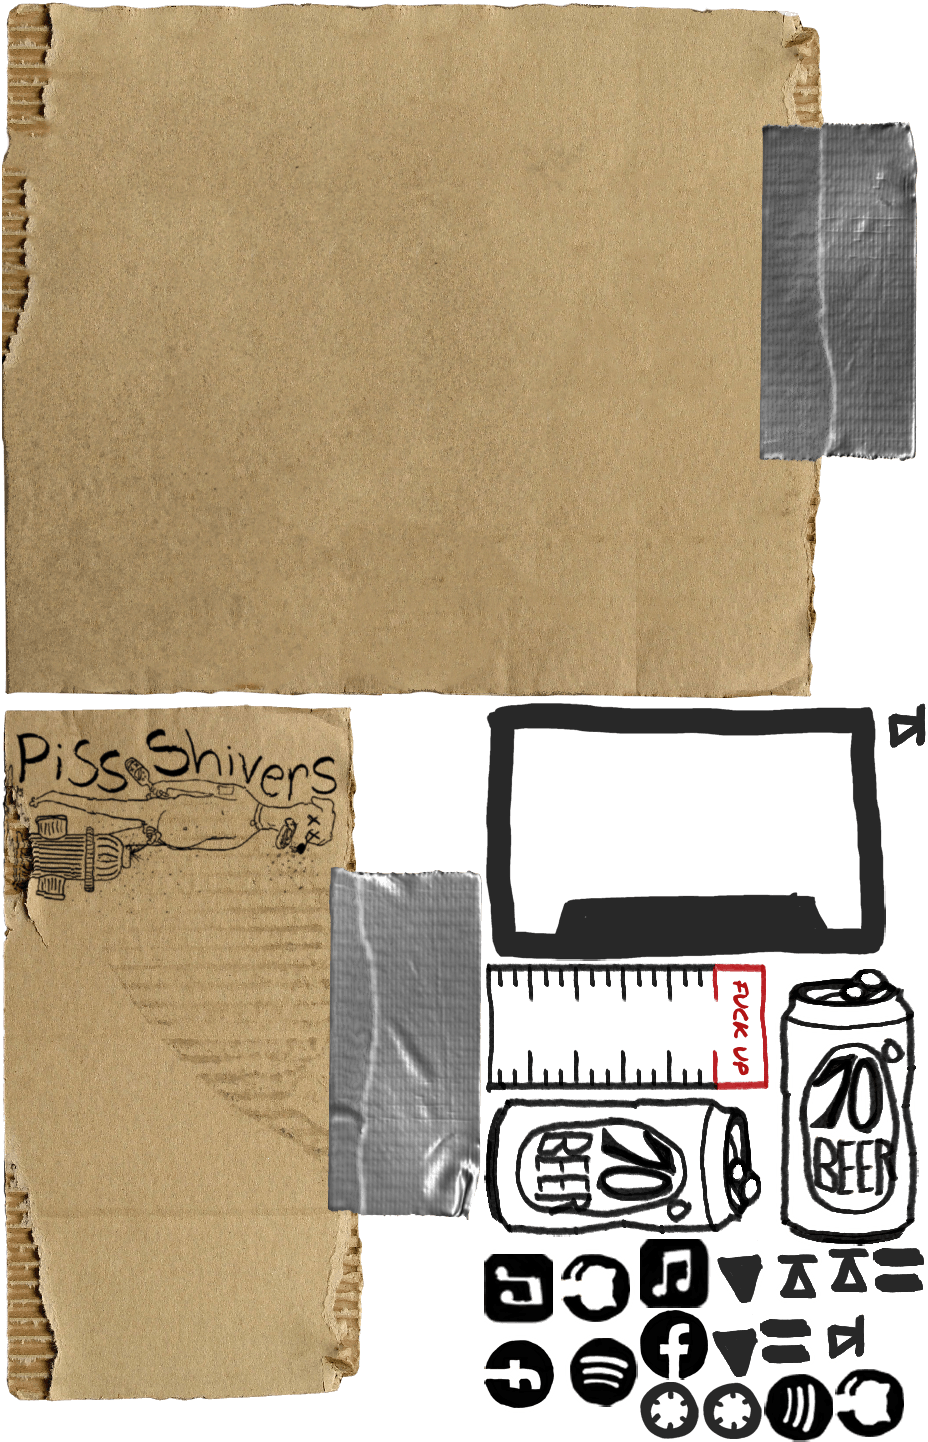
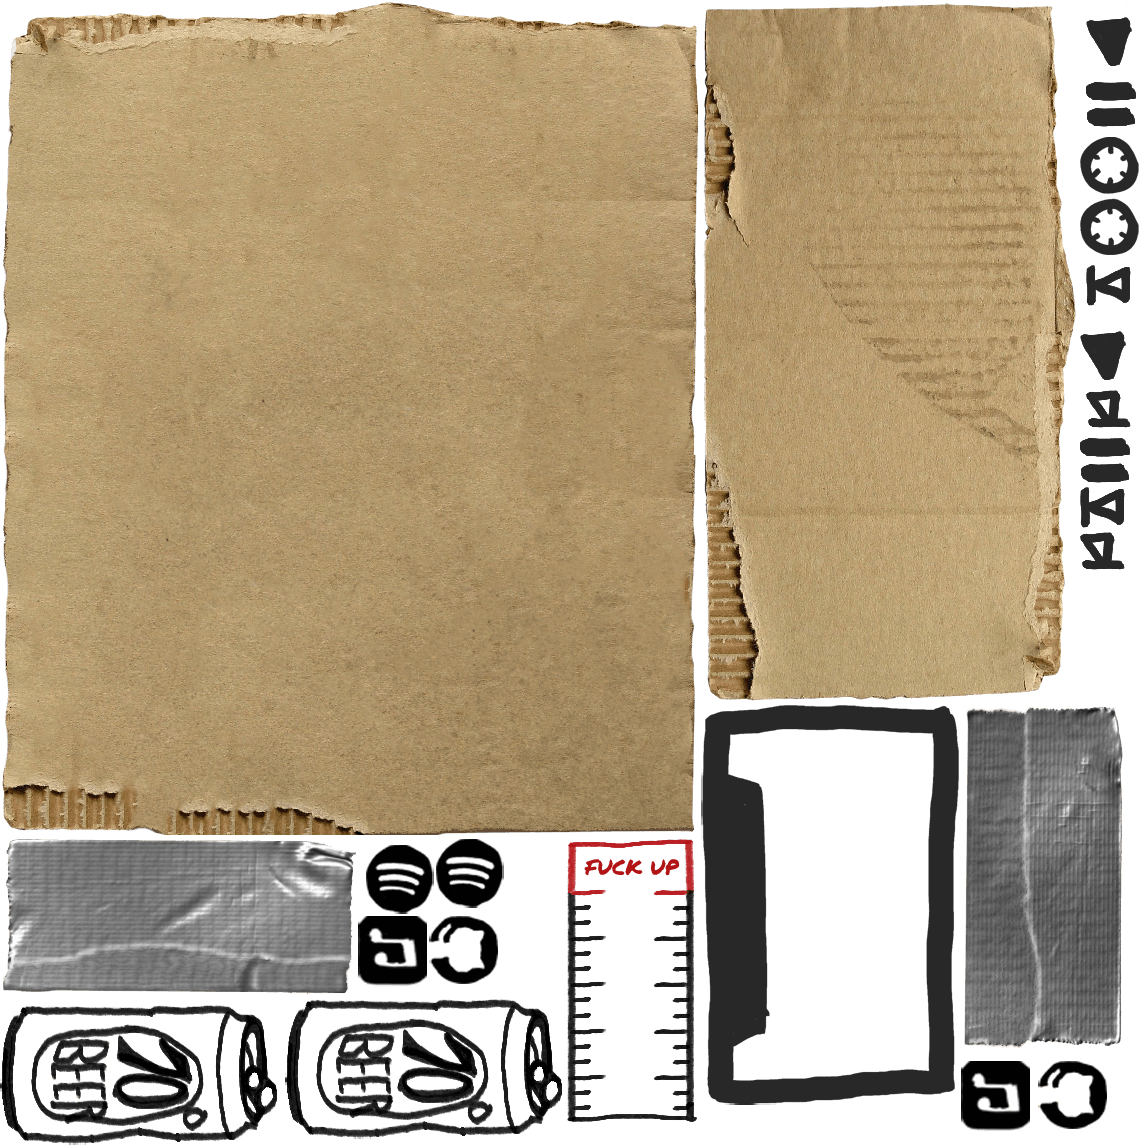
Fixes: UI sprite improvments and playlist auto-next play

diff --git a/src/app/piss-app/ui/nav-board/nav-board.ts b/src/app/piss-app/ui/nav-board/nav-board.ts
@@ -6,36 +6,37 @@ import { Beer } from './beer';
 import { PissOMeter } from './piss-o-meter';
 import { loadScene } from '../../../store/scene/actions';
 import { Toilet, Backyard } from '../../scenes';
+import { TapedBoard } from '../taped-board';
 
 
-export class NavBoard extends SheetSprite {
+export class NavBoard extends TapedBoard {
 
     pissOMeter: PissOMeter;
     beer: Beer;
 
-    constructor(sheet: PIXI.Spritesheet){
-        super('nav-board.png', sheet);
+    constructor(sheet: PIXI.Spritesheet, board: string, tape: string){
+        super(sheet, board, tape);
         this.pissOMeter = new PissOMeter('piss-o-meter.png', sheet);
         this.pissOMeter.init();
-        this.addChild(this.pissOMeter);
+        this.board.addChild(this.pissOMeter);
 
         this.beer = new Beer(sheet);
-        this.addChild(this.beer);
+        this.board.addChild(this.beer);
 
         const header = new Text("Baby Haus Activies:", {fontSize: 40})
         header.x = this.pissOMeter.x + 120;
-        header.y = 180;
-        this.addChild(header)
+        header.y = 80;
+        this.board.addChild(header)
         
         const list = new Text("1. Play a Piss Shivers track\r\n2. Drink some Beer (don't FUCK-UP and drink too much)\r\n3. Use the TOILET to drain the Piss-O-Meter\r\n4. Listen to Piss Shivers on Spotify or Apply Music", {maxWidth: 400, fontSize: 25})
         list.x = header.x+30;
         list.y = header.y + 70;
-        this.addChild(list);
+        this.board.addChild(list);
 
         const goto = new Text("GO TO:");
         goto.x = list.x;
         goto.y = list.y + list.height + 70;
-        this.addChild(goto)
+        this.board.addChild(goto)
 
         const toilet = new TextButton("TOILET ->");
         toilet.x = goto.x + 100;
@@ -43,7 +44,7 @@ export class NavBoard extends SheetSprite {
         toilet.on('pointerdown', () => {
             store.dispatch(loadScene(Toilet.name))
         });
-        this.addChild(toilet);
+        this.board.addChild(toilet);
 
         const backyard = new TextButton("<- BACKYARD", {fontName: 'Permanent Marker', fontSize: 40});
         backyard.x = goto.x + 40;
@@ -51,25 +52,25 @@ export class NavBoard extends SheetSprite {
         backyard.on('pointerdown', () => {
             store.dispatch(loadScene(Backyard.name))
         });
-        this.addChild(backyard);
+        this.board.addChild(backyard);
 
         const spotify = new SpriteButton("spotify.png", sheet);
         spotify.on('pointerdown', () => {
             window.open("https://open.spotify.com/artist/0mtCigA4HfQhb325zUNvAj", "_blank")
         })
-        this.addChild(spotify)
+        this.board.addChild(spotify)
 
         const appleMusic = new SpriteButton("apple-music.png", sheet)
         appleMusic.on('pointerdown', () => {
             window.open("https://geo.music.apple.com/us/album/extended-piss/1516122681", "_blank")
         })
-        this.addChild(appleMusic);
+        this.board.addChild(appleMusic);
 
         const github = new SpriteButton("github.png", sheet)
         github.on('pointerdown', () => {
             window.open("https://github.com/pissshivers", "_blank")
         })
-        this.addChild(github);
+        this.board.addChild(github);
     }
 
 }

diff --git a/src/app/piss-app/ui/music-board/music-board.ts b/src/app/piss-app/ui/music-board/music-board.ts
@@ -1,36 +1,62 @@
 import * as PIXI from 'pixi.js';
 
-import { Tape } from './music-player/tape';
+import { Cassette } from './music-player/tape';
 import { Controls } from './music-player/controls';
 import { Playlist } from '../../core/Playlist/Playlist';
 import { ITrack } from '../../core/Playlist/ITrack'
 import { Tracks } from './tracks';
 import { SheetSprite } from '../../core/UI/SheetSprite';
+import { TapedBoard } from '../taped-board';
 
-export class MusicBoard extends SheetSprite {
+export class MusicBoard extends TapedBoard {
 
    sheet: PIXI.Spritesheet;
-   tape: Tape;
+   schlongDog: PIXI.Sprite;
+   pissAnim: PIXI.AnimatedSprite;
+   cassette: Cassette;
    controls: Controls;
    tracks: ITrack[];
    playlist: Playlist;
 
-    constructor(sheet: PIXI.Spritesheet){
-        super('music-board.png', sheet);
+    constructor(sheet: PIXI.Spritesheet, board: string, tape: string){
+        super(sheet, board, tape);
 
         this.sheet = sheet;
         this.tracks = Tracks;
         this.playlist = new Playlist(this.tracks);
 
-        this.tape = new Tape(this.sheet, this.playlist);
-        this.addChild(this.tape);
-
+        this.cassette = new Cassette(this.sheet, this.playlist);
+        this.board.addChild(this.cassette);
+        
 
         this.controls = new Controls(this.sheet, this.playlist);
-        this.addChild(this.controls);
+        this.board.addChild(this.controls);
+
+        const schlongSheet = PIXI.Loader.shared.resources['schlong-dog-data'].spritesheet;
+        this.schlongDog = new PIXI.Sprite(schlongSheet.textures['schlong-dog.png']);
+
+        this.schlongDog.scale.set((this.board.height * 0.9)/this.schlongDog.height);
+        // this.schlongDog.anchor.set(0);
+        this.schlongDog.position.set(35)
+        // this.schlongDog.pivot = this.board.pivot;
+
+        this.pissAnim = new PIXI.AnimatedSprite(schlongSheet.animations['schlong-dog-pissing']);
+        this.pissAnim.animationSpeed = 0.1;
+
+        this.schlongDog.addChild(this.pissAnim);
+        this.board.addChild(this.schlongDog);
+        
+        this.cassette.playlist.on('play', () => {
+            this.pissAnim.play();
+        });
+
+        this.cassette.playlist.on('pause', () => {
+            this.pissAnim.stop();
+        })
     }
 
     tick(time: number){
-        this.tape.tick(time);
+        this.cassette.tick(time);
+        
     }
 }

diff --git a/src/app/piss-app/ui/music-board/music-player/tape.ts b/src/app/piss-app/ui/music-board/music-player/tape.ts
@@ -10,7 +10,7 @@ interface TrackDisplay {
     rotate: boolean
 }
 
-export class Tape extends SheetSprite {
+export class Cassette extends SheetSprite {
 
     sheet: PIXI.Spritesheet;
     leftSpool: PIXI.Sprite;
@@ -58,15 +58,15 @@ export class Tape extends SheetSprite {
             this.trackDisplay = this.getTrackDisplay(trackNameRender);
             this.trackName.text = this.trackDisplay.title;
         })
-
+        PIXI.Ticker.shared.add(this.tick, this);
         this.playlist.on('play', () => {
-            PIXI.Ticker.shared.add(this.tick, this);
+            
         })
 
         this.playlist.audio.addEventListener('pause', () => {
             this.t = 0;
             this.trackName.text = this.trackDisplay.title;
-            PIXI.Ticker.shared.remove(this.tick, this);                    
+            // PIXI.Ticker.shared.remove(this.tick, this);                    
         })
     }
 
@@ -122,9 +122,10 @@ export class Tape extends SheetSprite {
     }
 
     tick(time: number){
-        
-        this.updateTitleDisplay(time);
+        if (!this.playlist.paused){
+            this.updateTitleDisplay(time);
         this.leftSpool.rotation += 0.01 * time;
         this.rightSpool.rotation += 0.01 * time;
+        }
     }
 }

diff --git a/src/app/piss-app/ui/nav.ts b/src/app/piss-app/ui/nav.ts
@@ -8,12 +8,13 @@ import { ResourceMap } from '../core';
 import { Assets } from './assets';
 import { MusicBoard } from './music-board/music-board';
 import { NavBoard } from './nav-board/nav-board';
+import { TapedBoard } from './taped-board';
 
 export class Nav extends UI {
 
     sheet: PIXI.Spritesheet;
-    musicBoard: SheetSprite;
-    navBoard: SheetSprite;
+    musicBoard: TapedBoard;
+    navBoard: TapedBoard;
     textStyle: PIXI.TextStyle;
 
     constructor(piss: PissApp){
@@ -29,10 +30,10 @@ export class Nav extends UI {
         const res = PIXI.Loader.shared.resources;
         this.sheet = res['piss-shivers-ui'].spritesheet;
 
-        this.musicBoard = new MusicBoard(this.sheet);
+        this.musicBoard = new MusicBoard(this.sheet, 'music-board.png', 'music-board-tape.png');
         this.addChild(this.musicBoard);
 
-        this.navBoard = new NavBoard(this.sheet);
+        this.navBoard = new NavBoard(this.sheet, 'nav-board.png', 'nav-board-tape.png');
         this.addChild(this.navBoard);
 
         this.resize();

diff --git a/src/app/piss-app/ui/taped-board.ts b/src/app/piss-app/ui/taped-board.ts
@@ -1,0 +1,20 @@
+import * as PIXI from 'pixi.js';
+
+import { SheetSprite } from '../core/UI';
+
+export class TapedBoard extends PIXI.Container {
+
+    board: SheetSprite;
+    tape: SheetSprite;
+
+    constructor(sheet: PIXI.Spritesheet, boardName: string, tapeName: string){
+        super();
+
+        this.board = new SheetSprite(boardName, sheet);
+        this.tape = new SheetSprite(tapeName, sheet);
+
+        this.addChild(this.board);
+        this.addChild(this.tape);
+    }
+
+}

diff --git a/src/app/piss-app/core/Playlist/Playlist.ts b/src/app/piss-app/core/Playlist/Playlist.ts
@@ -10,6 +10,7 @@ export class Playlist extends PIXI.utils.EventEmitter {
     trackTitle: string;
     duration: number;
     audio: HTMLAudioElement;
+    playing: boolean;
 
     constructor(trackList: ITrack[]){
         super();
@@ -54,6 +55,7 @@ export class Playlist extends PIXI.utils.EventEmitter {
     }
 
     pause(){
+        this.emit('pause');
         this.audio.pause();
     }
 

diff --git a/src/app/piss-app/ui/music-board/music-player/controls.ts b/src/app/piss-app/ui/music-board/music-player/controls.ts
@@ -56,6 +56,10 @@ export class Controls extends PIXI.Container {
             this.pause.disable();
         })
 
+        this.playlist.audio.addEventListener('ended', () => {
+            this.playlist.next();
+        })
+
         this.playlist.on('loadstart', (track: number) => {
             store.dispatch(changeTrack(track))
         })

diff --git a/src/app/store/scene/constants.ts b/src/app/store/scene/constants.ts
@@ -1,2 +1,2 @@
 export const SCENE_NAME: string = 'Backyard';
-export const TRACK_NUM: number = 1;
+export const TRACK_NUM: number = 0;
